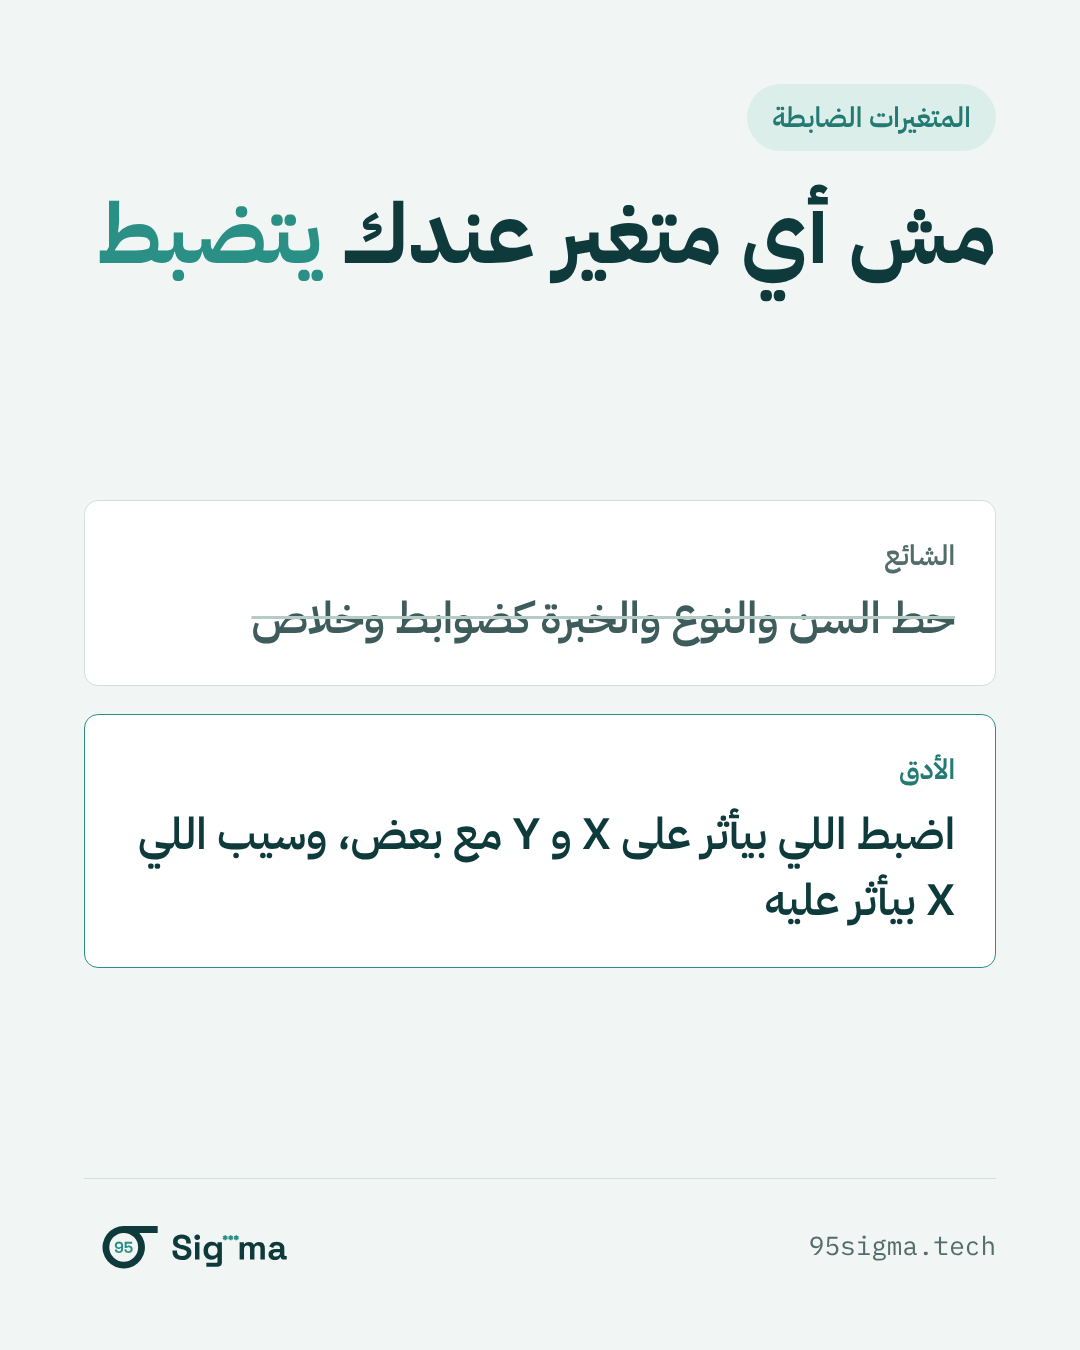
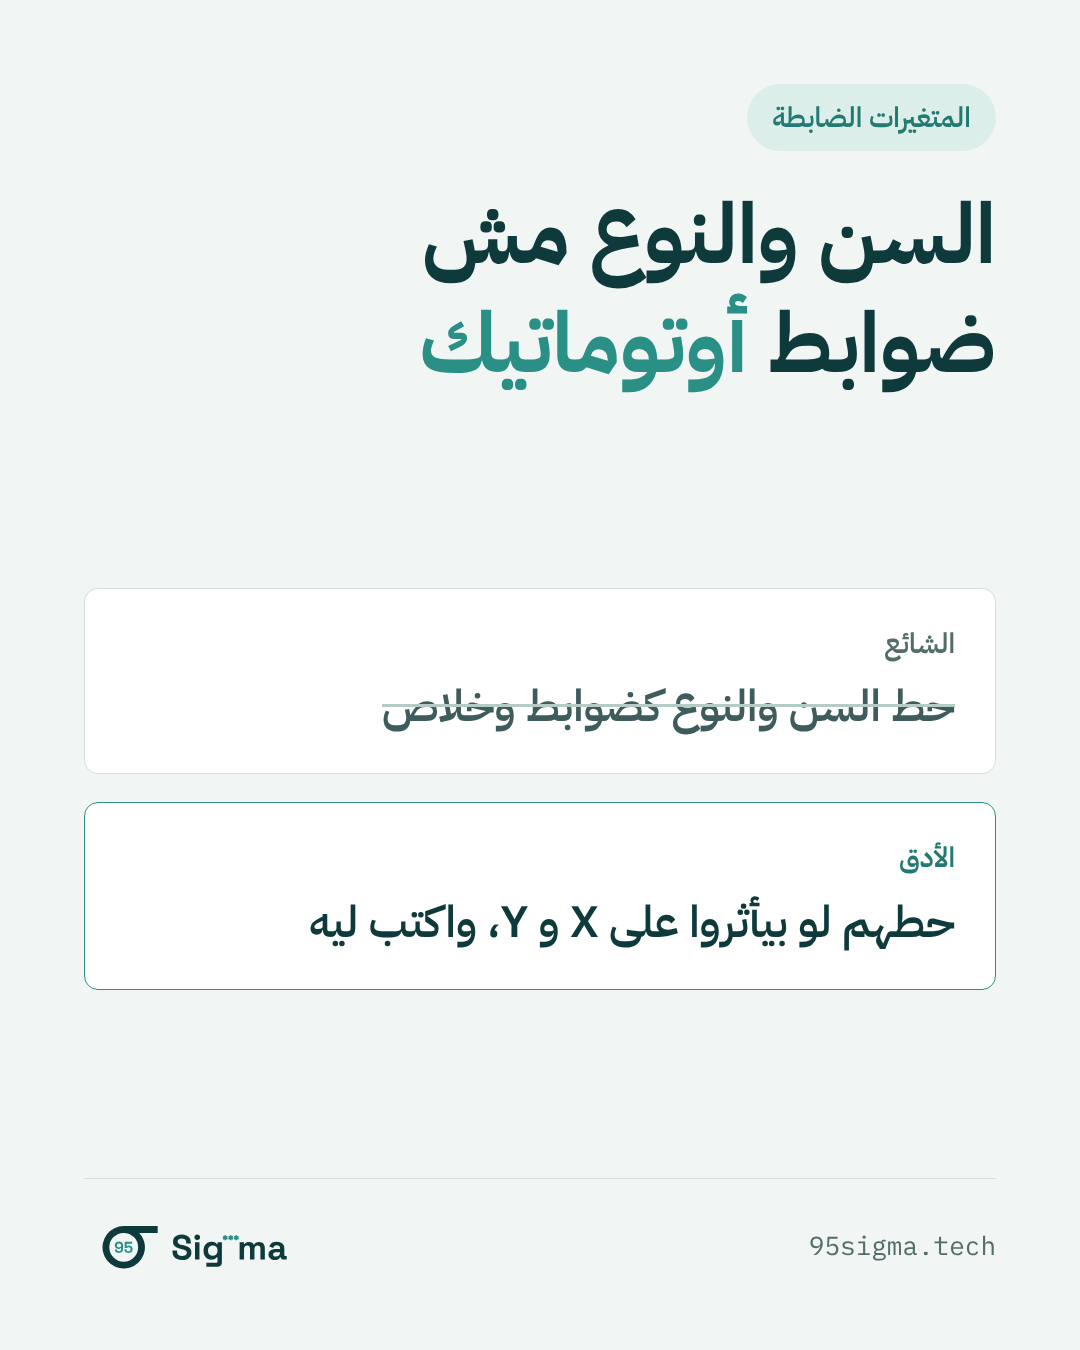
Refocus the control variables post on age and gender as automatic controls
Claude-Session: https://claude.ai/code/session_01BLcXgpArSgLCACpZHM2bbD

diff --git a/topics/2026-10-25-control-variables/post.md b/topics/2026-10-25-control-variables/post.md
@@ -1,24 +1,20 @@
-# بوست: المتغيرات الضابطة
+# بوست: المتغيرات الضابطة (السن والنوع)
 
-لو بتدرس أثر التدريب على أداء الموظفين، وحطيت كمتغيرات ضابطة السن والنوع وسنين الخبرة ومستوى المهارة وهل الموظف اترقى ولا لأ، عشان كلهم موجودين في الاستبيان، استنى شوية.
+كله بيحط السن والنوع كمتغيرات ضابطة. المشرف طلبهم، والرسايل اللي قبلك فيها كدا، فبتحطهم وخلاص. بس في حالات السن والنوع ممكن يضيّعوا النتيجة اللي إنت تعبت عليها.
 
-المتغير الضابط مش أي متغير موجود عندك في الاستبيان. إنت بتحطه عشان في سبب إنه بيأثر على الـ X وعلى الـ Y مع بعض.
+بص المثال دا. إنت بتدرس أثر سنين الخبرة على أداء الموظف، وحطيت السن كضابط. طيب مين اللي عنده خبرة أكتر؟ غالبًا الأكبر سنًا. فلما تثبت السن، إنت كدا بتقارن ناس في نفس السن، والفرق بينهم في الخبرة بقى صغير جدًا. فممكن الخبرة تطلع مش significant، مش عشان مالهاش أثر، لكن عشان إنت شلت معظم الفرق اللي كنت عايز تقيسه.
 
-بص على سنين الخبرة. الموظف الأقدم غالبًا خد تدريب أكتر، وأداؤه أعلى أصلًا عشان هو أقدم. لو مضبطتهاش، التدريب هيبان أقوى من حقيقته. دا الضابط الصح.
+ونفس الحكاية مع النوع. لو بتدرس أثر الأعباء الأسرية على نية ترك الشغل، وفي عينتك الستات هما اللي شايلين معظم الأعباء دي، فلما تضبط النوع إنت بتشيل جزء كبير من الأعباء نفسها، والأثر ممكن يختفي.
 
-طيب المهارة؟ التدريب نفسه هو اللي بيرفع المهارة، والمهارة هي اللي بترفع الأداء. يعني المهارة دي الطريق اللي التدريب بيشتغل من خلاله. لو حطيتها كضابط إنت كدا بتشيل أثر التدريب بإيدك، وممكن يطلعلك إن التدريب مالوش أثر.
+يعني المشكلة مش في السن والنوع نفسهم. المشكلة إن الضابط لما يكون متداخل أوي مع الـ X بتاعك، بياكل منه.
 
-والترقية أسوأ. اللي اتدرب بيترقى، واللي أداؤه عالي بيترقى. لو ضبطتها، ممكن تطلعلك علاقة بين التدريب والأداء مش موجودة في الحقيقة.
+طيب إمتى تحطهم؟ لما يكون في سبب إنهم بيأثروا على الـ X وعلى الـ Y مع بعض. ولو حاسس إن النوع مهم، اسأل نفسك ليه. غالبًا في حاجة حقيقية ورا النوع، زي الأعباء الأسرية، ودي اللي المفروض تقيسها.
 
-والسن والنوع؟ نفس السؤال بالظبط. حطهم لو في سبب في موضوعك إنهم بيأثروا على التدريب والأداء، مش عشان كل الرسايل فيها كدا.
+فقبل ما تحط أي ضابط، اكتب سطر بيقول هو بيأثر على إيه وليه. ولو حطيته، اعرض النتيجة بيه ومن غيره.
 
-وخد بالك إن R² هيزيد مع كل متغير من دول، فهتحس إن النموذج اتحسن وهو في الحقيقة بيبوظ.
+إنت حاطط السن والنوع في رسالتك؟ وتقدر تقول ليه؟
 
-فقبل ما تحط أي ضابط اسأل نفسك: المتغير دا جاي قبل الـ X وبيأثر على الاتنين؟ اضبطه. الـ X هو اللي بيأثر عليه؟ سيبه برا. ولو مش عارف تكتب سطر يبرر وجوده، غالبًا مالوش مكان في النموذج.
-
-إنت حاطط إيه ضوابط في رسالتك، وتقدر تقول ليه كل واحد فيهم موجود؟
-
-المرجع: Cinelli, Forney & Pearl (2022), A Crash Course in Good and Bad Controls
+المرجع: Spector & Brannick (2011), Methodological Urban Legends: The Misuse of Statistical Control Variables
 
 #البحث_العلمي #التحليل_الإحصائي
 
@@ -26,10 +22,11 @@
 
 ## افتتاحيات بديلة
 
-1. السن والنوع وسنين الخبرة مش ضوابط أوتوماتيك في أي نموذج.
-2. في متغيرات لو ضبطتها في النموذج، بتمسح الأثر اللي إنت بتدور عليه.
+1. السن والنوع مش ضوابط أوتوماتيك في أي نموذج.
+2. حطيت السن كضابط، والخبرة طلعت مش significant. دي مش صدفة.
 
 ## ملاحظات
-- حوالي 245 كلمة.
-- المثال (التدريب والأداء) توضيحي ومفيهوش أرقام.
-- الكلام عن الـ regression، وينطبق على SEM (AMOS / SmartPLS) بنفس المنطق لو حد سأل في الكومنتات.
+- حوالي 250 كلمة.
+- المثالين توضيحيين ومفيهمش أرقام.
+- الدقة: في المثالين التقدير مش بالضرورة بيتحيز، اللي بيحصل إن الفرق المتبقي في الـ X بيقل فالنتيجة بتضعف أو تبطل significant. علشان كدا الكلام «ممكن» مش «أكيد».
+- مثال المهارة والترقية (الضوابط اللي بتيجي بعد الـ X) شلناه من البوست ده، وموجود في research.md لو حبيت نعمله بوست تاني.

diff --git a/topics/2026-10-25-control-variables/research.md b/topics/2026-10-25-control-variables/research.md
@@ -41,6 +41,13 @@
 - **الترقية:** التدريب بيرفع فرص الترقية، والأداء العالي كمان. لو ضبطتها، ممكن تظهر علاقة بين التدريب والأداء مش موجودة، أو تتقلب.
 - **R²:** بيزيد مع كل متغير تضيفه، حتى الغلط، فمش دليل إن الضوابط صح.
 
+### السن والنوع (المثال اللي اتختار للبوست)
+- **السن مع الخبرة:** لو الـ X هو سنين الخبرة، السن متداخل معاها جدًا. لما تضبط السن بتقارن ناس في نفس السن، والفرق المتبقي في الخبرة صغير، فالـ standard error بيكبر والخبرة ممكن تطلع مش significant. ولو السن مالوش أثر مباشر على الأداء غير عن طريق الخبرة، يبقى إنت دفعت تمن من غير ما تكسب حاجة. ولو له أثر مباشر، يبقى سؤالك اتغير لـ «أثر الخبرة عند نفس السن»، ولازم تقول كدا.
+- **النوع مع الأعباء الأسرية:** لو النوع بيأثر على نية الترك أساسًا عن طريق الأعباء الأسرية، ضبطه بيشيل جزء كبير من التباين في الأعباء نفسها. والأعباء بتتقاس باستبيان فيه خطأ قياس، فاللي بيفضل بعد ضبط النوع نسبة الخطأ فيه أعلى، والأثر بيضعف أكتر.
+- **النوع كـ proxy:** Spector & Brannick (2011) بيقولوا إن الديموغرافيات غالبًا بتبقى بديل لمتغير حقيقي (أعباء أسرية، فرص ترقية، خبرة). الأحسن تقيس المتغير الحقيقي بدل ما تضبط البديل. [4]
+- **إمتى يبقوا ضوابط صح:** لما يأثروا على X و Y الاتنين بشكل مستقل، مثلًا النوع لو بيأثر على فرص التدريب وعلى تقييم الأداء من المدير في نفس الوقت.
+- **حدود الكلام:** في المثالين التقدير مش بالضرورة متحيز؛ المشكلة الأساسية في الـ power ومعنى السؤال. علشان كدا الصياغة «ممكن».
+
 ## 5. نقط خلافية وحدود الكلام
 - في مدرسة الإدارة والسلوك التنظيمي في توصيات "لو مش متأكد، شيله" وفي ناس شايفة إن شيل confounder حقيقي أخطر من إضافة ضابط زيادة. الاتنين صح في ظروف مختلفة، والفيصل هو النظرية.
 - مش دايمًا واضح إذا كان المتغير confounder ولا mediator (مثلًا الرضا الوظيفي قبل التدريب ولا بعده). التوقيت والتصميم بيفرقوا، وفي الـ cross-sectional ده أصعب.

diff --git a/topics/2026-10-25-control-variables/brief.md b/topics/2026-10-25-control-variables/brief.md
@@ -9,5 +9,5 @@
 
 ## القرارات
 - الفورمات: بوست
-- الزاوية: أ «الضابط مش أي متغير موجود عندك في الاستبيان»
+- الزاوية: السن والنوع مش ضوابط أوتوماتيك، وممكن يضيّعوا النتيجة (طلب محمد 2026-10-25)
 - 2026-10-25: مفيش محاكاة. الشرح بالأمثلة زي ما بيشرح للطلاب، مش تعقيد رياضي
